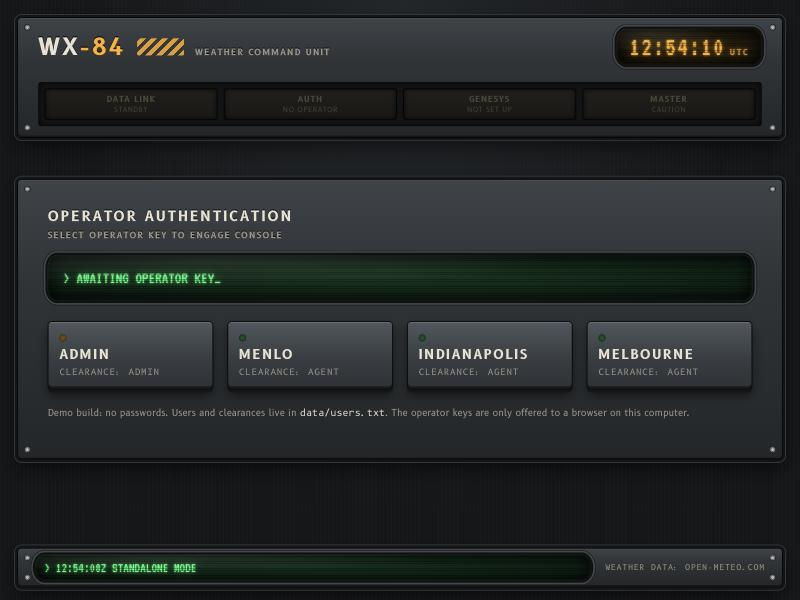
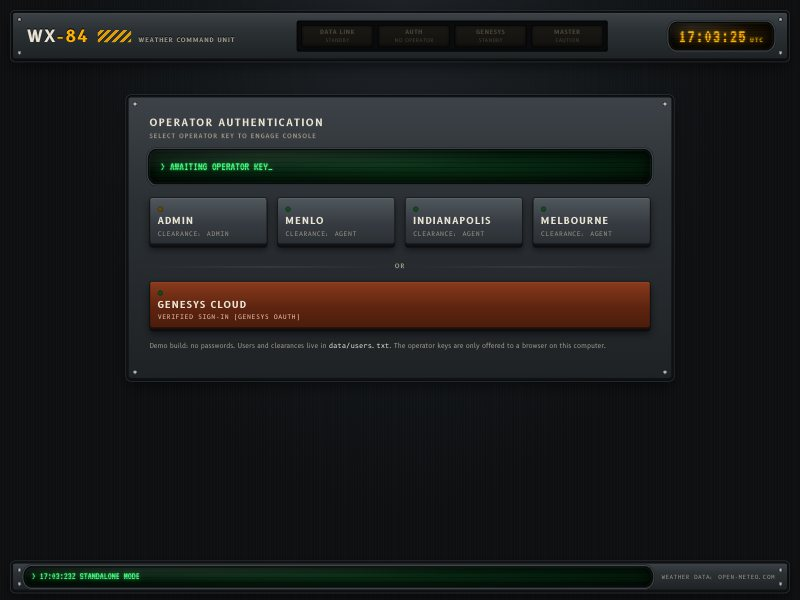
Bring all docs in line with the refresh-token sign-in
- The setup renames the agents' OAuth client from "WX-84 Agent Console
  (PKCE)" to "WX-84 Agent Console" in place (same id and secret); docs
  and both interactive pages use the new name.
- The console's sign-in key reads "Verified sign-in (Genesys OAuth)";
  login.jpg is re-rendered.
- Setup guide and demo script: each agent links WX-84 once, after which
  the server keeps the link with the refresh token.
- Demo script FAQ: the partner needs an Authorization Code client whose
  secret stays on its server, plus users/me and tokens/me.

diff --git a/docs/agent-sign-in.html b/docs/agent-sign-in.html
@@ -425,7 +425,7 @@ footer { font: 12px var(--mono); color: var(--dim); }
     'sso': { name: 'Single sign-on', aka: 'SSO', def: 'Sign in once and use several apps without signing in again.', wx: 'The agent’s Genesys sign-in also opens WX-84.' },
     'login-cookie': { name: 'Login cookie', def: 'A small note the browser keeps so a website recognizes you on your next visit.', wx: 'Needed once, for the first silent link. Renewal works without it.' },
     'oauth': { name: 'OAuth 2.0', def: 'The standard rulebook for letting an app act for a user without ever seeing the user’s password.', wx: 'WX-84 uses the Authorization Code flow with PKCE.' },
-    'oauth-client': { name: 'OAuth client', def: 'An app registered in Genesys Cloud so it may ask for passes. It lists where passes may be delivered and what they may do.', wx: '“WX-84 Agent Console (PKCE)”, created by setup.js.' },
+    'oauth-client': { name: 'OAuth client', def: 'An app registered in Genesys Cloud so it may ask for passes. It lists where passes may be delivered and what they may do.', wx: '“WX-84 Agent Console”, created by setup.js.' },
     'client-id': { name: 'Client ID', def: 'The public ID of a registered app. Not a secret.', wx: 'Sent with every pass request; WX-84 also checks it on every pass it receives.' },
     'client-secret': { name: 'Client secret', aka: 'the partner secret', def: 'A password for an app. Only apps that run on a server can keep one safe.', wx: 'Known only to the WX-84 server (macOS keychain in the demo). It turns the voucher into a pass and renews the pass.' },
     'public-client': { name: 'Public client', def: 'An app that cannot keep a secret, such as a web page. It proves itself with PKCE instead, and Genesys gives it no refresh token.', wx: 'The first version of WX-84 worked this way; the popup came back every hour.' },
@@ -654,9 +654,9 @@ footer { font: 12px var(--mono); color: var(--dim); }
     { k: 'PERSON', q: 'Is this e-mail on our list, exactly once?', fail: '403 · ACCESS DENIED' },
   ];
   const VISITORS = [
-    { id: 'menlo', label: 'Menlo Park agent', sub: 'On the list for one station', name: 'Maya Ortiz', email: 'maya.ortiz@example.com', org: ORG, app: 'WX-84 Agent Console (PKCE)', checks: [1, 1, 1], user: 'menlo', role: 'agent', stations: ['menlo-park'] },
-    { id: 'admin', label: 'Supervisor', sub: 'On the list as admin', name: 'Sam Lee', email: 'sam.lee@example.com', org: ORG, app: 'WX-84 Agent Console (PKCE)', checks: [1, 1, 1], user: 'admin', role: 'admin', stations: ['dortmund', 'indianapolis', 'menlo-park', 'melbourne'] },
-    { id: 'newhire', label: 'New hire', sub: 'Genesys user, not on the list yet', name: 'Noor Haddad', email: 'noor.haddad@example.com', org: ORG, app: 'WX-84 Agent Console (PKCE)', checks: [1, 1, 0], reason: 'No WX-84 account for noor.haddad@example.com' },
+    { id: 'menlo', label: 'Menlo Park agent', sub: 'On the list for one station', name: 'Maya Ortiz', email: 'maya.ortiz@example.com', org: ORG, app: 'WX-84 Agent Console', checks: [1, 1, 1], user: 'menlo', role: 'agent', stations: ['menlo-park'] },
+    { id: 'admin', label: 'Supervisor', sub: 'On the list as admin', name: 'Sam Lee', email: 'sam.lee@example.com', org: ORG, app: 'WX-84 Agent Console', checks: [1, 1, 1], user: 'admin', role: 'admin', stations: ['dortmund', 'indianapolis', 'menlo-park', 'melbourne'] },
+    { id: 'newhire', label: 'New hire', sub: 'Genesys user, not on the list yet', name: 'Noor Haddad', email: 'noor.haddad@example.com', org: ORG, app: 'WX-84 Agent Console', checks: [1, 1, 0], reason: 'No WX-84 account for noor.haddad@example.com' },
     { id: 'otherapp', label: 'Pass from another app', sub: 'Right org, wrong app', name: 'Maya Ortiz', email: 'maya.ortiz@example.com', org: ORG, app: 'Acme Reporting Tool', checks: [1, 0, -1], reason: 'Pass was not issued to the WX-84 OAuth client' },
     { id: 'otherorg', label: 'Agent of another company', sub: 'Different Genesys customer', name: 'Chris Park', email: 'chris.park@example.org', org: 'Globex (another Genesys customer)', app: 'an app in the Globex org', checks: [0, -1, -1], reason: 'Pass belongs to a different Genesys Cloud organization' },
   ];

diff --git a/genesys/setup.js b/genesys/setup.js
@@ -30,7 +30,8 @@ const NAMES = {
   botFlow: 'WX-84 Name Collector',
   messengerConfig: 'WX-84 Flight Weather Desk',
   deployment: 'WX-84 Flight Weather Desk',
-  oauthClient: 'WX-84 Agent Console (PKCE)',
+  oauthClient: 'WX-84 Agent Console',
+  oauthClientLegacy: 'WX-84 Agent Console (PKCE)', // first version's name: renamed in place, same id and secret
   integration: 'WX-84 Weather Command Unit',
   // Every chat goes to this one queue. Its members are the group above, so
   // whoever is in "WX-84 Agents" takes chats; WX-84 decides what each one sees.
@@ -539,9 +540,9 @@ async function ensureMessenger(flow) {
 }
 
 async function ensureOAuthClient(redirectUris) {
-  step('OAuth client for the agent console (Authorization Code with client secret + PKCE, refresh tokens)');
+  step('OAuth client for the agent console (Authorization Code with client secret, refresh tokens)');
   const clients = await listAll('/api/v2/oauth/clients');
-  let client = clients.find((x) => x.name === NAMES.oauthClient);
+  let client = clients.find((x) => x.name === NAMES.oauthClient) || clients.find((x) => x.name === NAMES.oauthClientLegacy);
   const body = {
     name: NAMES.oauthClient,
     description: 'WX-84 demo: agents sign in to the WX-84 console with their Genesys Cloud identity',
@@ -558,12 +559,14 @@ async function ensureOAuthClient(redirectUris) {
     const current = [...(client.registeredRedirectUri || [])].sort().join();
     const urisChanged = current !== [...redirectUris].sort().join();
     const lifetimeChanged = client.accessTokenValiditySeconds !== AGENT_TOKEN_SECONDS;
-    if ((urisChanged || lifetimeChanged) && !DRY_RUN) {
+    const renamed = client.name !== NAMES.oauthClient;
+    if ((urisChanged || lifetimeChanged || renamed) && !DRY_RUN) {
       client = await gc('PUT', `/api/v2/oauth/clients/${client.id}`, { ...body, roleIds: client.roleIds });
       if (urisChanged) ok(`updated redirect URIs: ${redirectUris.join(', ')}`);
       if (lifetimeChanged) ok(`agent access token lifetime set to ${AGENT_TOKEN_SECONDS / 60} minutes (renewed by the server)`);
-    } else if (urisChanged || lifetimeChanged) {
-      plan('update redirect URIs / agent token lifetime');
+      if (renamed) ok(`renamed the OAuth client to "${NAMES.oauthClient}" (same id and secret)`);
+    } else if (urisChanged || lifetimeChanged || renamed) {
+      plan('update redirect URIs / agent token lifetime / name');
     } else {
       same(`OAuth client exists (${client.id})`);
     }

diff --git a/docs/system-map.html b/docs/system-map.html
@@ -353,7 +353,7 @@ footer { color: var(--faint); font: 11.5px var(--mono); }
       <div class="card">
         <span class="k">APP</span>
         <span class="q">Was this token issued to WX-84?</span>
-        <span class="how"><code>tokens/me</code> names the OAuth client, which must be <b>WX-84 Agent Console (PKCE)</b>.</span>
+        <span class="how"><code>tokens/me</code> names the OAuth client, which must be <b>WX-84 Agent Console</b>.</span>
         <div class="row"><span class="rk">FAILS</span><span class="fail">403 · not issued to WX-84</span></div>
         <div class="row"><span class="rk">STOPS</span><span>A token lifted from another app in the same org.</span></div>
       </div>

diff --git a/public/index.html b/public/index.html
@@ -44,7 +44,7 @@
             <button class="keycap genesys" type="button" id="btn-genesys-login">
               <span class="k-led"></span>
               <span class="k-name">Genesys Cloud</span>
-              <span class="k-role">Verified sign-in (OAuth PKCE)</span>
+              <span class="k-role">Verified sign-in (Genesys OAuth)</span>
             </button>
           </div>
         </div>

diff --git a/docs/genesys-setup.md b/docs/genesys-setup.md
@@ -13,7 +13,7 @@ This guide connects the local WX-84 console to a Genesys Cloud org. The provisio
 | Digital bot flow | `WX-84 Name Collector` | Asks the customer for their last name (one slot, `builtin:any`, no Virtual Agent). Each bot session is billed as "Genesys Cloud for Bot Flow - Digital" (tokens) |
 | Inbound message flow | `WX-84 Station Router` | Calls the name bot, attaches the answer as `wx84.lastName`, then transfers every chat to `WX-84 Weather Desk`. The custom attribute `location` travels along as context |
 | Messenger configuration + deployment | `WX-84 Flight Weather Desk` | The chat on the customer page. *Conversation clear* is enabled, so the page's **New conversation** button (and the trash icon in the chat header) can end a chat and remove it from the browser |
-| OAuth client (Authorization Code) | `WX-84 Agent Console (PKCE)` (name kept from the first version) | Agents sign in to WX-84 with their Genesys identity. The WX-84 server trades the code for tokens with the client **secret**, keeps the **refresh token** and renews the 1-hour access token itself, so agents are not asked again. The setup stores the secret in the macOS keychain (service `wx84-genesys-setup`, account `agent-client-secret`) and only issues a new one when Genesys no longer accepts the stored one. See the [partner guide](partner-sso-guide.md) |
+| OAuth client (Authorization Code) | `WX-84 Agent Console` (renamed by the setup from the first version's `WX-84 Agent Console (PKCE)`, same id and secret) | Agents sign in to WX-84 with their Genesys identity. The WX-84 server trades the code for tokens with the client **secret**, keeps the **refresh token** and renews the 1-hour access token itself, so agents are not asked again. The setup stores the secret in the macOS keychain (service `wx84-genesys-setup`, account `agent-client-secret`) and only issues a new one when Genesys no longer accepts the stored one. See the [partner guide](partner-sso-guide.md) |
 | Interaction Widget | `WX-84 Weather Command Unit` | Shows the console inside web-messaging interactions on the `WX-84 Weather Desk` queue |
 
 ## Prerequisites
@@ -92,6 +92,7 @@ The script writes `config/config.json` (IDs only, no secrets). It also links the
 1. Each agent accepts the invitation e-mail and sets a password.
 2. **Run the setup once more.** New users join the group, and with it the queue, only after they are active.
 3. Each agent signs in to `https://apps.usw2.pure.cloud` (use separate Chrome profiles or incognito windows to run several agents at once) and goes **On Queue**. Genesys Cloud loads widgets at sign-in, so an agent who was already signed in when the setup ran must reload the page once.
+4. Each agent opens the WX-84 panel once, in a chat on the Weather Desk. It links silently (or after one click on **Engage link**). From then on the WX-84 server keeps the link with the refresh token, also across server restarts: the flight recorder shows one `SIGN-IN` per agent and then `TOKEN REFRESH OK` every hour.
 
 Every chat goes to `WX-84 Weather Desk`, and Genesys offers it to any agent of the group who is On Queue and idle. To decide who gets the next chat, put only that agent On Queue.
 

diff --git a/docs/demo-script.md b/docs/demo-script.md
@@ -11,6 +11,7 @@
 * Browser window 4: `http://localhost:3000`, signed in locally as **admin**, maintenance panel open.
 * All other WX-84 agents Off Queue. Every chat goes to the same queue, *WX-84 Weather Desk*, so whoever is On Queue gets the next chat.
 * Between runs, press **New conversation** at the top of the customer page. It ends the previous chat in Genesys Cloud and clears it from the browser, so the next station choice starts a fresh conversation.
+* Every demo agent has linked WX-84 once since the last change to the sign-in (one `SIGN-IN` per agent in the flight recorder). The link survives server restarts and renews itself every hour, so there is no sign-in during the demo.
 
 ## Storyline
 
@@ -34,7 +35,7 @@
 | "Is the customer's name verified?" | No. The customer typed it; it is a claim, fine for a weather briefing. For real customer data, use Authenticated Web Messaging so Genesys Cloud receives a verified customer identity. WX-84 shows the name but never stores or logs it. |
 | "Who may see the customer's name?" | Only agents whom Genesys Cloud lets see the conversation: WX-84 reads it with the agent's own token. Genesys protects the customer data, WX-84 protects its own data. |
 | "Does this scale beyond a text file?" | The file is a stand-in for any policy store: database, IdP groups, Genesys groups. The pattern stays the same: verify identity, map identity, check per request, log. |
-| "What does the partner need from Genesys?" | One OAuth client (Code + PKCE), one Interaction Widget, and the `users/me` call. No Genesys data is stored by the partner. |
+| "What does the partner need from Genesys?" | One OAuth client (Authorization Code, its secret only on the partner's server), one Interaction Widget, and the `users/me` and `tokens/me` calls. No Genesys data is stored by the partner. |
 | "What happens when the Genesys token expires?" | Nothing the agent notices. The WX-84 server keeps a refresh token and renews the 1-hour token itself, in the background, without the agent and without the agent's Genesys login. Sessions are stored encrypted, so even a server restart does not ask anyone to sign in again. |
 | "Why did the popup ask for my password, although I am signed in to Genesys?" | Agent Workspace stays signed in on its own token; the separate Genesys *login* session can end after about an hour. That only matters for the very first link of an agent: afterwards the refresh token makes the login session irrelevant. |
 | "How often does an agent sign in to the partner app?" | Normally never: the first link happens silently because the agent just signed in to Genesys, and the server keeps the link alive with the refresh token. At most one click in browsers that block third-party cookies. How partners build this: [partner guide](partner-sso-guide.md). |
